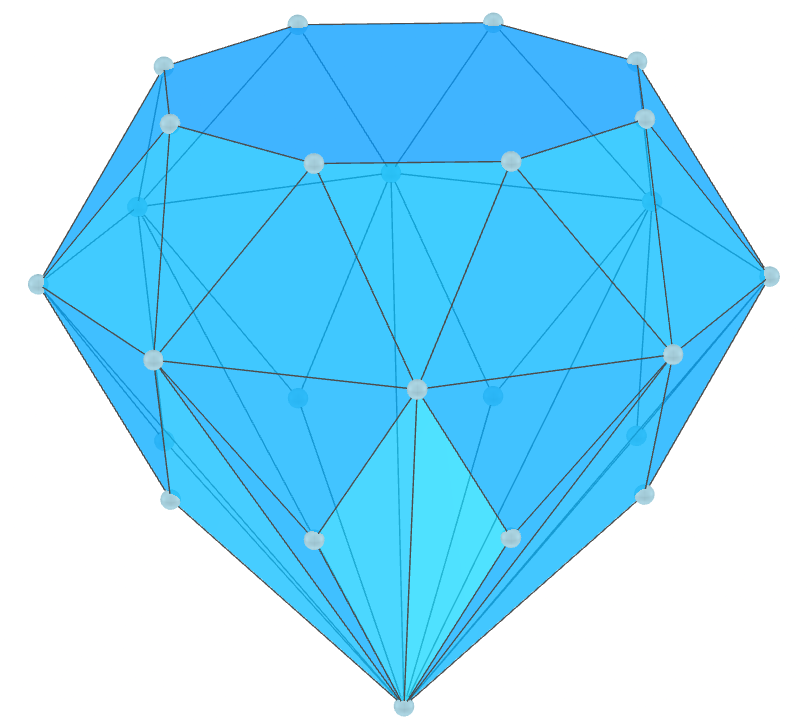
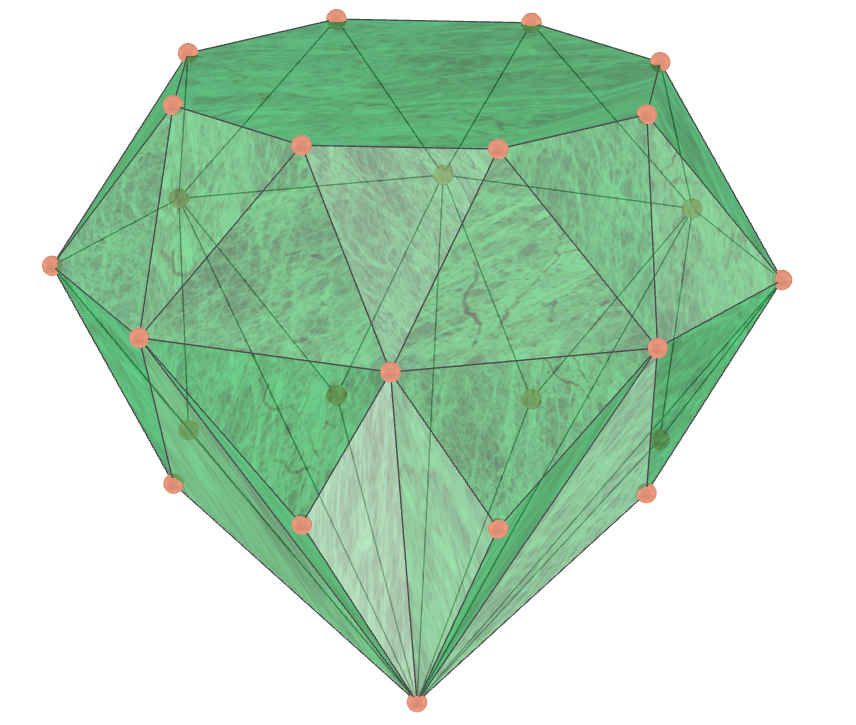
update

diff --git a/diamonds/vr/HexagonalPrism.htm b/diamonds/vr/HexagonalPrism.htm
@@ -23,19 +23,21 @@
 		</a-assets>
 				
 		<a-entity rotation="-90 0 0" position="0 2 0" scale="6.5 6.5 6.5">
-			<a-obj-model id="fc" src="outros/PentagonalPrism.obj" mtl="#material" scale="0.998 0.998 0.998"></a-obj-model>
-			<a-obj-model id="ar" src="outros/PentagonalPrismL.obj" mtl="#material"></a-obj-model>
-			<a-sphere mixin='esfera' position='0.80902 0.26287 -0.175'></a-sphere>
-			<a-sphere mixin='esfera' position='-0.4045 0.1314 0.175'></a-sphere>
-			<a-sphere mixin='esfera' position='-0.80902 0.26287 -0.175'></a-sphere>
-			<a-sphere mixin='esfera' position='0.25 -0.3441 0.175'></a-sphere>
-			<a-sphere mixin='esfera' position='0.5 -0.68819 -0.175'></a-sphere>
-			<a-sphere mixin='esfera' position='-0.25 -0.3441 0.175'></a-sphere>
-			<a-sphere mixin='esfera' position='-0.5 -0.68819 -0.175'></a-sphere>
-			<a-sphere mixin='esfera' position='0.0 0.4253 0.175'></a-sphere>
-			<a-sphere mixin='esfera' position='0.0 0.85065 -0.175'></a-sphere>
-			<a-sphere mixin='esfera' position='0.4045 0.1314 0.175'></a-sphere>
-			<a-sphere mixin='esfera' position='0 0 -1'></a-sphere>
+			<a-obj-model id="fc" src="outros/HexagonalPrism.obj" mtl="#material" scale="0.998 0.998 0.998"></a-obj-model>
+			<a-obj-model id="ar" src="outros/HexagonalPrismL.obj" mtl="#material"></a-obj-model>
+			<a-sphere mixin='esfera' position='1.0 0.0 -0.175'></a-sphere>
+			<a-sphere mixin='esfera' position='-0.5 0.0 0.175'></a-sphere>
+			<a-sphere mixin='esfera' position='-1.0 0.0 -0.175'></a-sphere>
+			<a-sphere mixin='esfera' position='0.25 0.433 0.175'></a-sphere>
+			<a-sphere mixin='esfera' position='0.5 0.86602 -0.175'></a-sphere>
+			<a-sphere mixin='esfera' position='0.25 -0.433 0.175'></a-sphere>
+			<a-sphere mixin='esfera' position='0.5 -0.86602 -0.175'></a-sphere>
+			<a-sphere mixin='esfera' position='-0.25 0.433 0.175'></a-sphere>
+			<a-sphere mixin='esfera' position='-0.5 0.86602 -0.175'></a-sphere>
+			<a-sphere mixin='esfera' position='-0.25 -0.433 0.175'></a-sphere>
+			<a-sphere mixin='esfera' position='-0.5 -0.86602 -0.175'></a-sphere>
+			<a-sphere mixin='esfera' position='0.5 0.0 0.175'></a-sphere>
+			<a-sphere mixin='esfera' position='0 0 -1.3'></a-sphere>
 		</a-entity>
 		
 		<a-entity camera="fov:1; near:1;" orbit-controls="target: 0 0 0; maxPolarAngle: 180; minDistance: 0.5; initialPosition: 200 150 700; maxDistance: 1500;"></a-entity>
@@ -51,8 +53,8 @@
 		<a-sky color="aliceblue"></a-sky>
     </a-scene>
 	<div class="box">
-		<span class="titulo">Diamond truncated pentagonal pyramid</span>
-		<br><span class="titulo">Pirâmide pentagonal truncada de diamante</span>
+		<span class="titulo">Diamond truncated hexagonal pyramid</span>
+		<br><span class="titulo">Pirâmide hexagonal truncada de diamante</span>
 		<hr><input type="checkbox" id="faces" checked onclick="mfaces()">faces&nbsp;&nbsp;&nbsp;  
 		<input type="checkbox" id="arestas" checked onclick="marestas()">edges&nbsp;&nbsp;&nbsp; 
 		<input type="checkbox" id="vertices" checked onclick="mvertices()">vertices

diff --git a/diamonds/vr/Cube.htm b/diamonds/vr/Cube.htm
@@ -18,11 +18,11 @@
 			<a-mixin id="mtl0p" material="opacity: 0.2; roughness: 0.9; metalness: 0.3;"></a-mixin>
 			<a-mixin id="texto" text="color: #4d4d4d; align:center;"></a-mixin>
 			<a-mixin id="luz" light="type: directional; color: white; intensity:0.4"></a-mixin>
-			<a-mixin id="esfera" mixin="mtl9" geometry="radius: 0.02;" material="metalness:0.5; roughness:0.6;">
+			<a-mixin id="esfera" mixin="mtl9" geometry="radius: 0.017;" material="metalness:0.5; roughness:0.6;">
 			<a-asset-item id="material" src="outros/solidos.mtl"></a-asset-item>
 		</a-assets>
 				
-		<a-entity rotation="0 0 0" position="0 2 0" scale="7 7 7">
+		<a-entity rotation="0 0 0" position="0 2 0" scale="8 8 8">
 			<a-obj-model id="fc" src="outros/Cube.obj" mtl="#material" scale="0.998 0.998 0.998"></a-obj-model>
 			<a-obj-model id="ar" src="outros/CubeL.obj" mtl="#material"></a-obj-model>
 			<a-sphere mixin='esfera' position='0.25 0.175 -0.25'></a-sphere>

diff --git a/diamonds/pt-br/README.md b/diamonds/pt-br/README.md
@@ -205,6 +205,12 @@ com qualquer navegador com um dispositivo de webcam (smartphone, tablet ou noteb
  <br><br><b>Faces:</b> 18 triângulos, 3 quadrados e 1 hexágono | <b>Arestas:</b> 36 | <b>Vértices:</b> 15. <a href="https://polytope.miraheze.org/wiki/Triangular_hebesphenorotunda" target="_blank">Mais sobre...</a>
  <br><a href="../ra.html" class="raAR" title="Realidade aumentada" target="_blank"></a>
 <hr>
+<h4>28. Pirâmide hexagonal truncada de diamante</h4>
+<a href="../vr/HexagonalPrism.htm" target="_blank" title="modelo 3D" class="fotoA"><img src="../ar/107A.png" class="foto" alt="Pirâmide hexagonal truncada de diamante"></a><img src="../ar/107.png" class="qr">
+ <br><br>Considere uma hebesfenorotunda triangular modificada, desconsiderando as faces pentagonais e a face triangular que está unida apenas com os vértices dos pentágonos. O sólido obtido com a união de uma pirâmide reta de base eneagonal com as demais faces da hebesfenorotunda triangular modificada é uma hebesfenorotunda triangular truncada de diamante. 
+ <br><br><b>Faces:</b> 18 triângulos, 3 quadrados e 1 hexágono | <b>Arestas:</b> 36 | <b>Vértices:</b> 15. <a href="https://polytope.miraheze.org/wiki/Triangular_hebesphenorotunda" target="_blank">Mais sobre...</a>
+ <br><a href="../ra.html" class="raAR" title="Realidade aumentada" target="_blank"></a>
+<hr>
 <p class="topop"><a href="#p1" class="topo">voltar ao topo</a></p>
 <hr>
 

diff --git a/diamonds/README.md b/diamonds/README.md
@@ -205,6 +205,12 @@ with any browser with a webcam device (smartphone, tablet or notebook).
  <br><br><b>Faces:</b> 18 triangles, 3 squares and 1 hexagon | <b>Edges:</b> 36 | <b>Vertices:</b> 15. <a href="https://polytope.miraheze.org/wiki/Triangular_hebesphenorotunda" target="_blank">More...</a>
  <br><a href="ra.html" class="raAR" title="Augmented reality" target="_blank"></a>
 <hr>
+<h4>28. Diamond truncated hexagonal pyramid</h4>
+<a href="vr/HexagonalPrism.htm" target="_blank" title="3D model" class="fotoA"><img src="ar/107A.png" class="foto" alt="Diamond truncated hexagonal pyramid"></a><img src="ar/107.png" class="qr">
+ <br><br>Consider a modified triangular hebesphenorotunda, disregarding the pentagonal faces and the triangular face that is joined only with the pentagons vertices. The solid obtained by joining a right pyramid with an enneagonal base with the other faces of the modified triangular hebesphenorotunda is a diamond truncated triangular hebesphenorotunda.
+ <br><br><b>Faces:</b> 18 triangles, 3 squares and 1 hexagon | <b>Edges:</b> 36 | <b>Vertices:</b> 15. <a href="https://polytope.miraheze.org/wiki/Triangular_hebesphenorotunda" target="_blank">More...</a>
+ <br><a href="ra.html" class="raAR" title="Augmented reality" target="_blank"></a>
+<hr>
 <p class="topop"><a href="#p1" class="topo">back to top</a></p>
 <hr>
 
